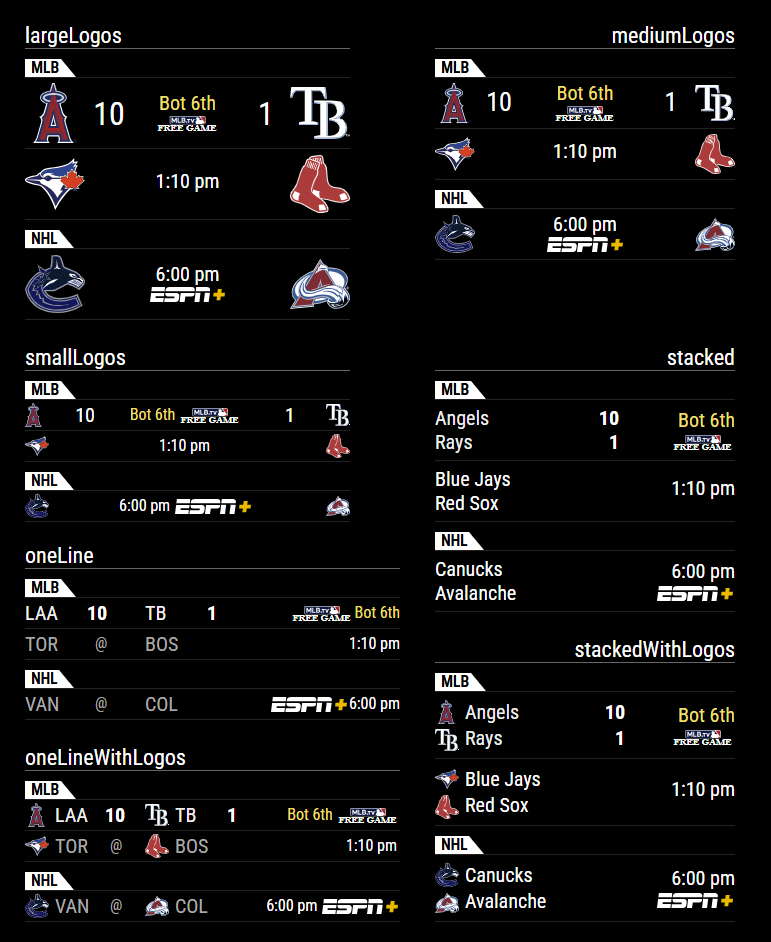
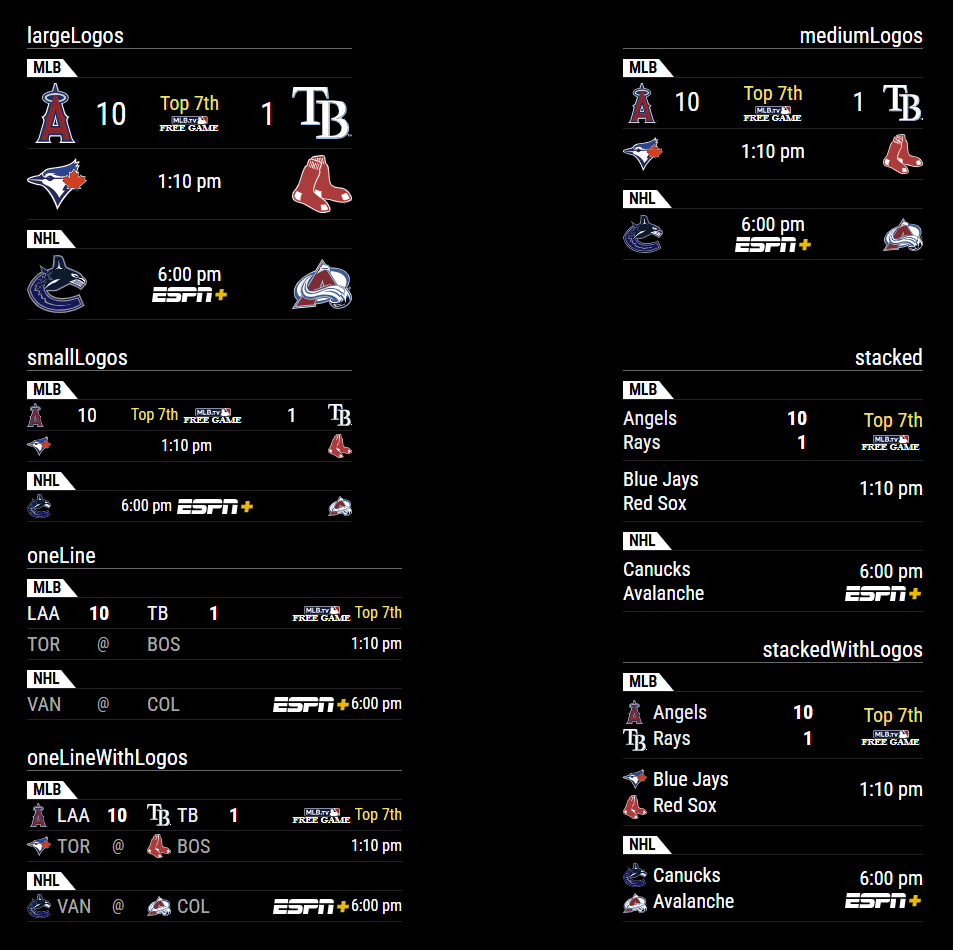
Fix oneLineWithLogos css

diff --git a/MMM-MyScoreboard.css b/MMM-MyScoreboard.css
@@ -1034,13 +1034,13 @@
 }
 
 .MMM-MyScoreboard .oneLine .broadcast,
-.MMM-MyScoreboard .oneLine .oneLineWithLogos {
+.MMM-MyScoreboard .oneLineWithLogos .broadcast {
   order: 1;
 }
 
 
 .MMM-MyScoreboard .oneLine .statusPart,
-.MMM-MyScoreboard .oneLine .oneLineWithLogos {
+.MMM-MyScoreboard .oneLineWithLogos .statusPart {
   order: 2;
 }
 
